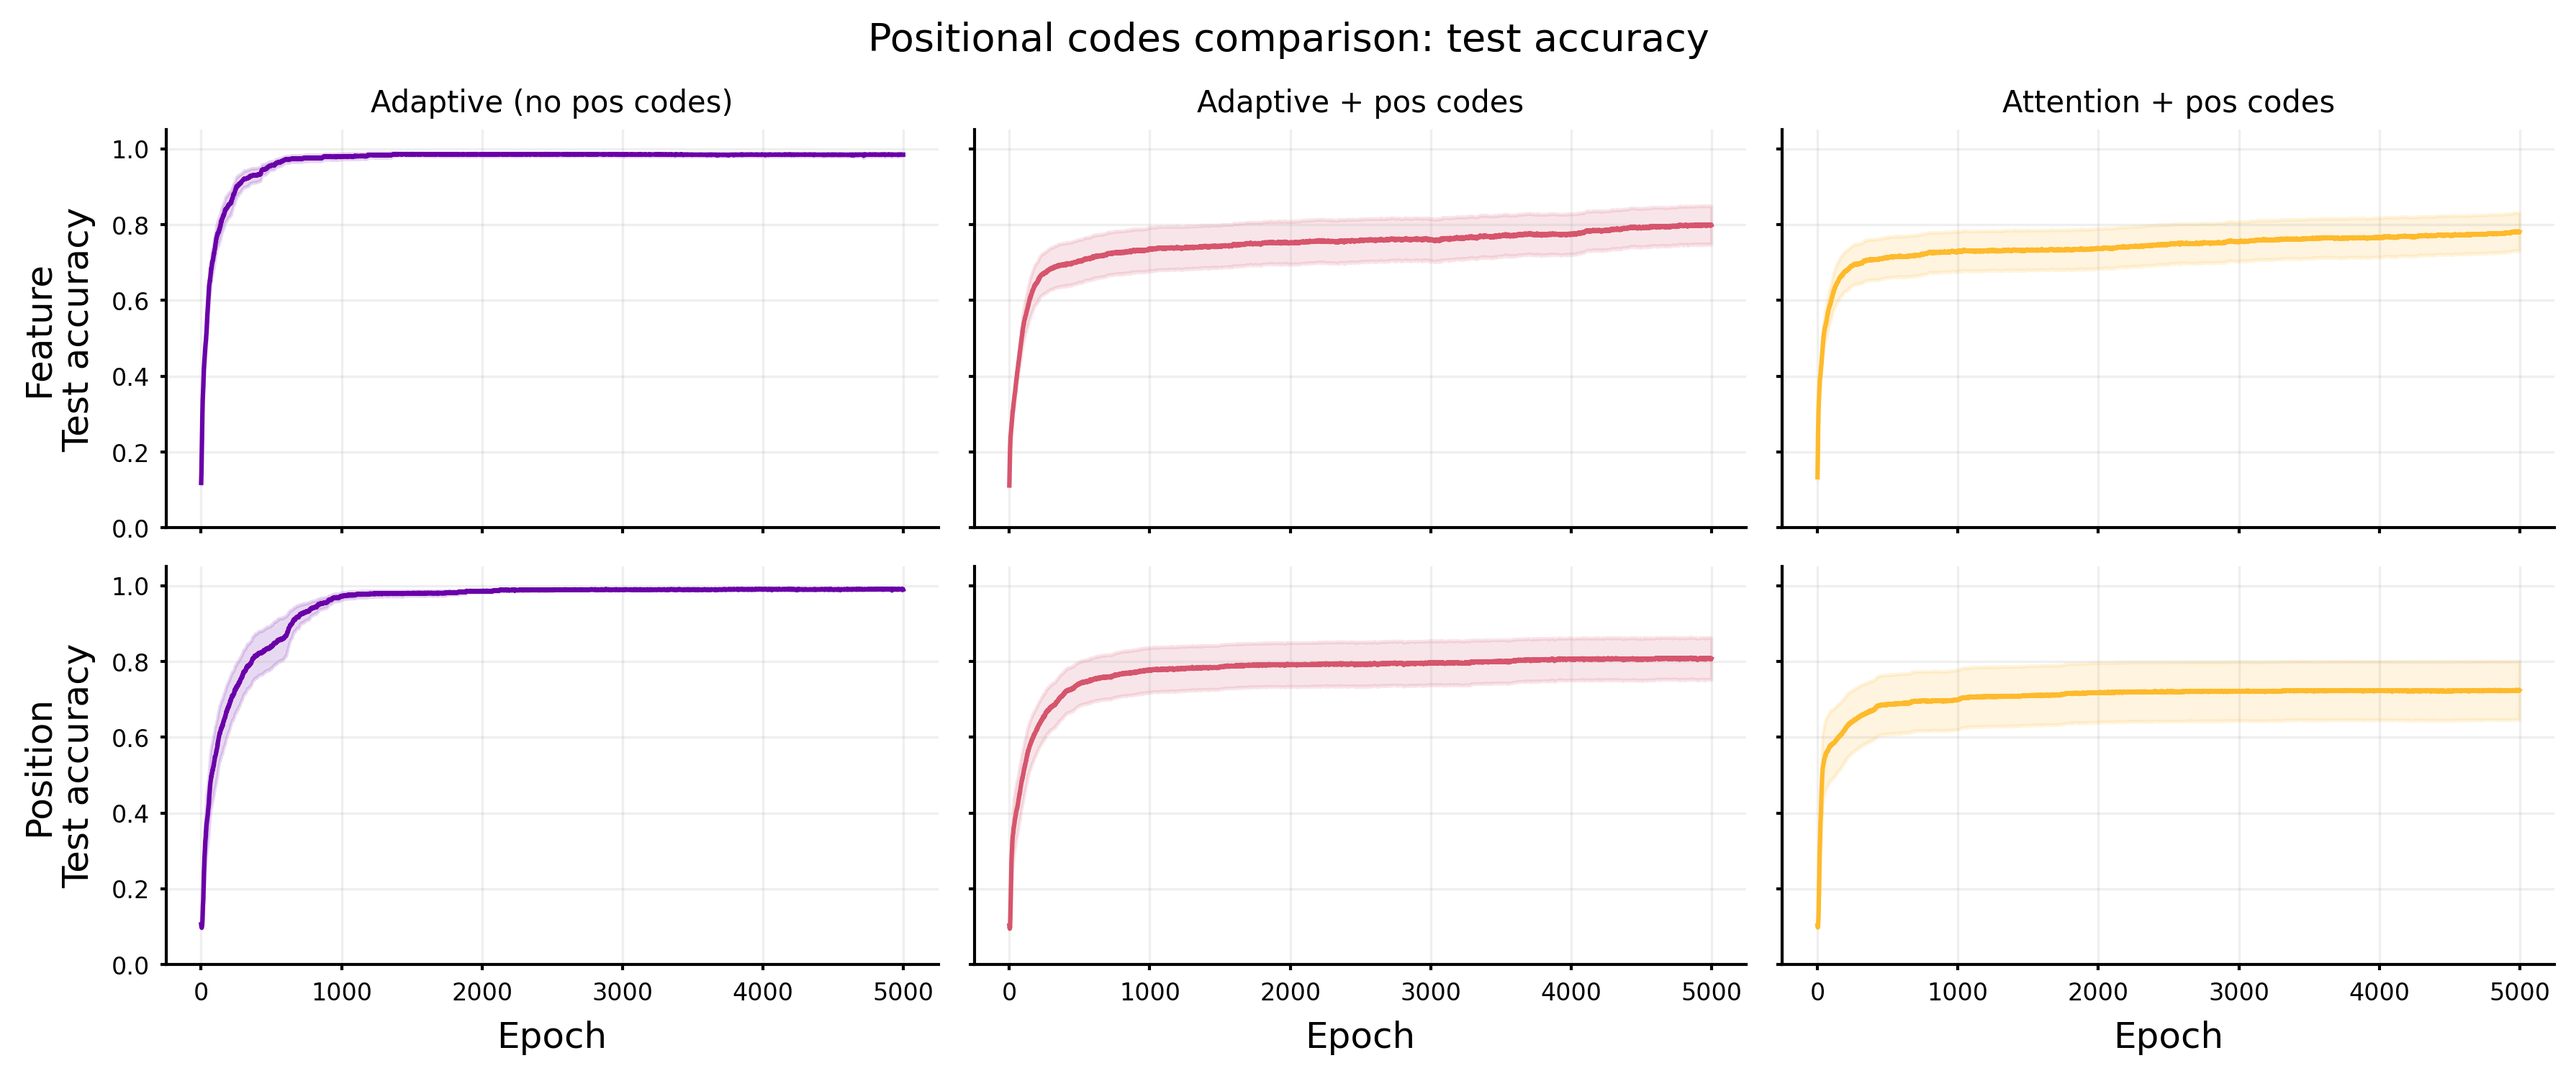
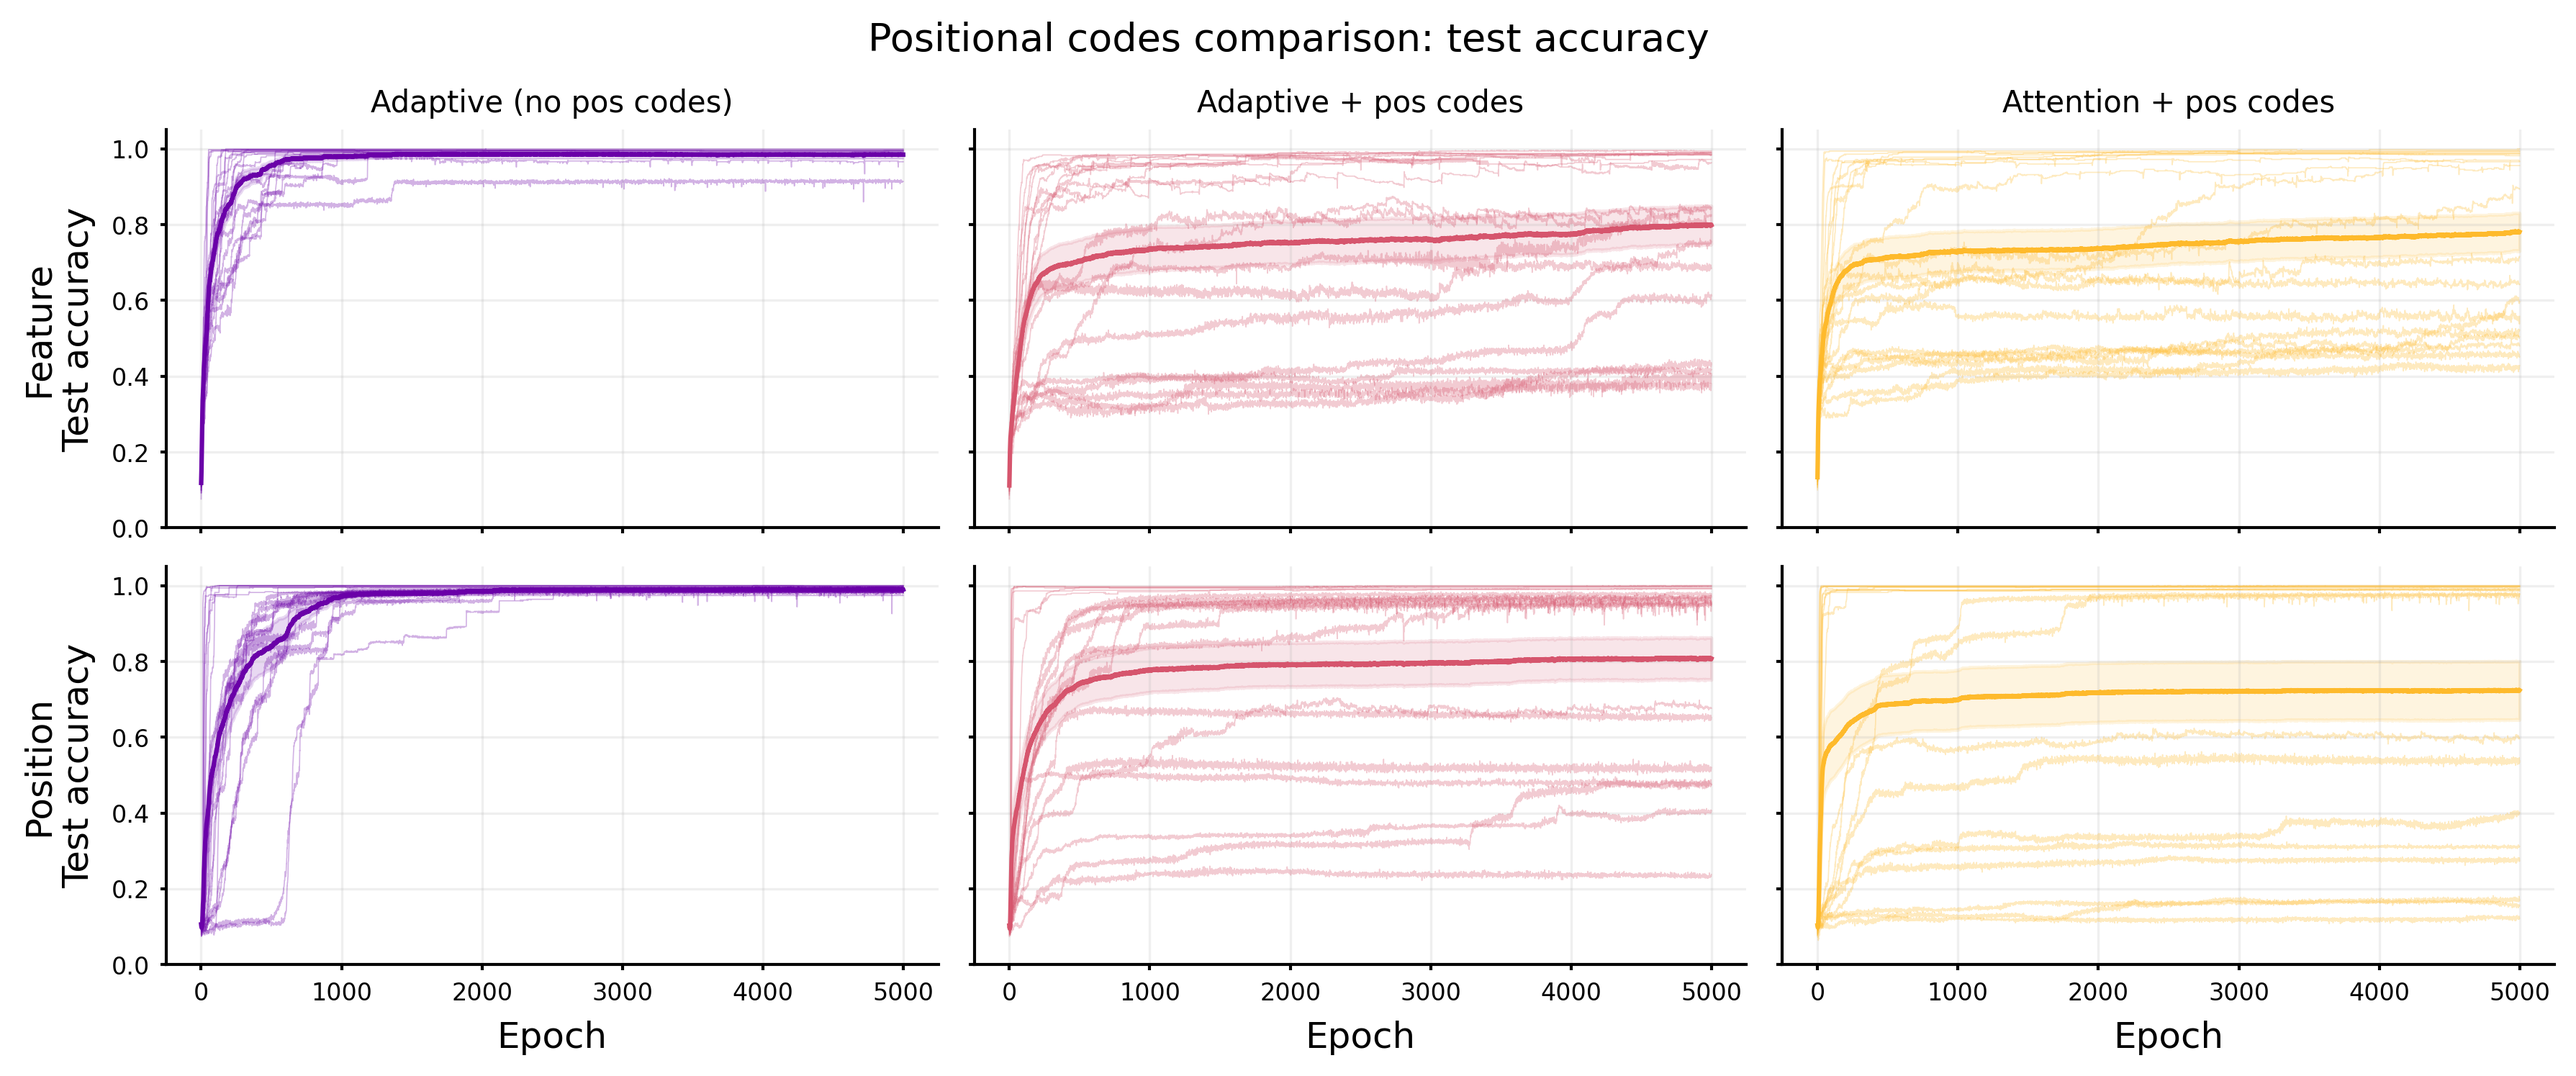
[update,analysis] plotted individual accuracy trajectories for positional code models, saw that some do learn the context identification task

diff --git a/scripts/context_identification/pos_codes/plot_pos_codes_comparison_results.py b/scripts/context_identification/pos_codes/plot_pos_codes_comparison_results.py
@@ -64,6 +64,11 @@ def plot_mean_sem(ax, epochs, curves, color, label=None):
     ax.fill_between(epochs, mean - sem, mean + sem, color=color, alpha=0.15)
 
 
+def plot_individual_trajectories(ax, epochs, curves, color):
+    for traj in curves:
+        ax.plot(epochs, traj, color=color, linewidth=0.4, alpha=0.3)
+
+
 # ============================================================
 # Figure 1: test accuracy curves (2 rows × 3 cols)
 # ============================================================
@@ -85,6 +90,7 @@ def plot_accuracy(
             seed_dict = results[cond][mode]
             curves = collect_curves(seed_dict, "test_acc")
             epochs = np.arange(curves.shape[1])
+            plot_individual_trajectories(ax, epochs, curves, color=CONDITION_COLORS[cond])
             plot_mean_sem(ax, epochs, curves, color=CONDITION_COLORS[cond])
 
             if row == 0:
@@ -217,17 +223,17 @@ if __name__ == "__main__":
     load_plot_config()
 
     plot_accuracy(
-        results_path="./data/pos_codes_comparison_sweep_2x_params.json",
-        save_path="./results/pos_codes_comparison_accuracy_2x_params.png",
+        results_path="./data/pos_codes_comparison_sweep.json",
+        save_path="./results/context_identification/pos_codes/pos_codes_comparison_accuracy.png",
     )
 
     plot_gamma_trajectory(
-        results_path="./data/pos_codes_comparison_sweep_2x_params.json",
-        save_path="./results/pos_codes_comparison_trajectory_2x_params.png",
+        results_path="./data/pos_codes_comparison_sweep.json",
+        save_path="./results/context_identification/pos_codes/pos_codes_comparison_trajectory.png",
     )
 
     make_table(
-        results_path="./data/pos_codes_comparison_sweep_2x_params.json",
-        save_path="./results/pos_codes_comparison_table_2x_params.csv",
+        results_path="./data/pos_codes_comparison_sweep.json",
+        save_path="./results/context_identification/pos_codes/pos_codes_comparison_table.csv",
         n_final=100,
     )

diff --git a/claude/2026_06_29/SUMMARY.md b/claude/2026_06_29/SUMMARY.md
@@ -1,0 +1,23 @@
+# Session Summary — 2026-06-29
+
+## Goal
+
+Add individual seed trajectories to `pos_codes_comparison_accuracy.png` to clarify whether the high variability in the positional-codes conditions reflects bimodal outcomes (some seeds learn, some fail) or uniform partial learning.
+
+## Change
+
+Modified `scripts/context_identification/pos_codes/plot_pos_codes_comparison_results.py`:
+
+- Added `plot_individual_trajectories()` helper that draws per-seed curves (linewidth=0.4, alpha=0.3) behind the mean ± SEM band.
+- Called it inside `plot_accuracy()` before the existing `plot_mean_sem()` call, so the mean line remains visually dominant.
+
+## Result
+
+The updated figure confirms the suspected bimodal pattern:
+
+- **Adaptive + pos codes** and **Attention + pos codes**: many seeds fail to learn the task, while a minority do succeed — explaining the large SEM (~5–8%).
+- **Adaptive (no pos codes)**: nearly all seeds converge to high accuracy (~98–99%), with very small SEM (~0.2–0.4%).
+
+## Conclusion
+
+Positional codes alter the learning dynamics or loss landscape in a way that makes optimization unreliable. The task is not fundamentally harder for those architectures — some seeds do solve it — but the basin of attraction for a good solution is apparently much smaller or harder to find when positional codes are present.

diff --git a/claude/2026_06_29/TODO.md b/claude/2026_06_29/TODO.md
@@ -1,0 +1,13 @@
+# Plotting `pos_codes_comparison_accuracy.png` in greater detail
+
+## Context
+
+Previously, we compared the adaptive relational bottleneck without positional codes to the adaptive relational bottleneck with positional codes and the self attention mechanism with positional codes. We saw that the adaptive relational bottleneck without positional codes performed better on average. However, it is unclear if the other models with positional codes can also learn the task, but there is greater variability depending on the random seed.
+
+## Actionable
+
+Let's modify the figures in `scripts/context_identification/pos_codes/plot_pos_codes_comparison_results.py` to also included trajectories of individual models.
+
+## Results
+
+Just as I suspected. When we plot the individual trajectories, we see that some models with positional codes do indeed learn the task, but so many of them fail. However, without the positional codes, nearly all of the adaptive relational bottleneck models learn the task. We can conclude that there is something about the learning dynamics or loss landscapes that changes with positional codes.
